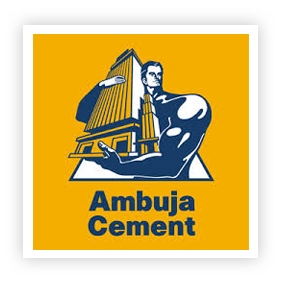
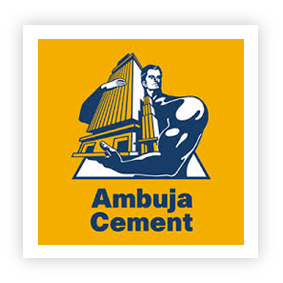
slider

Changed region(s): [[0.1131, 0.1131, 0.9046, 0.9046]]

diff --git a/homepage.html b/homepage.html
@@ -207,20 +207,20 @@
 
     <section class="customer-logos slider">
       <div class="slide"><img src="ambuja.png"></div>
-      <div class="slide"><img src="LBAJAJ.png"></div>
-      <div class="slide"><img src="LBIRLA.png"></div>
-      <div class="slide"><img src="LFORCEE.png"></div>
-      <div class="slide"><img src="LTATA.png"></div>
-      <div class="slide"><img src="LNALCOO.png"></div>
-      <div class="slide"><img src="LNTPCC.png"></div>
-      <div class="slide"><img src="LRILL.png"></div>
-      <div class="slide"><img src="lessarsteell.png"></div>
-      <div class="slide"><img src="LSAILL.png"></div>
-      <div class="slide"><img src="LLANDT.png"></div>
-      <div class="slide"><img src="LJSW.png"></div>
-      <div class="slide"><img src="LJKW.png"></div>
-      <div class="slide"><img src="LWELSPUNN.png"></div>
-      <div class="slide"><img src="LIFFCO.png"></div>
+      <div class="slide"><img src="bajaj.png"></div>
+      <div class="slide"><img src="birla.png"></div>
+      <div class="slide"><img src="force.png"></div>
+      <div class="slide"><img src="tata.png"></div>
+      <div class="slide"><img src="nalco.png"></div>
+      <div class="slide"><img src="ntpc.png"></div>
+      <div class="slide"><img src="ril.png"></div>
+      <div class="slide"><img src="essar.png"></div>
+      <div class="slide"><img src="sail.png"></div>
+      <div class="slide"><img src="lnt.png"></div>
+      <div class="slide"><img src="jsw.png"></div>
+      <div class="slide"><img src="jkw.png"></div>
+      <div class="slide"><img src="welspun.png"></div>
+      <div class="slide"><img src="iffco.png"></div>
       
    </section> 
 
